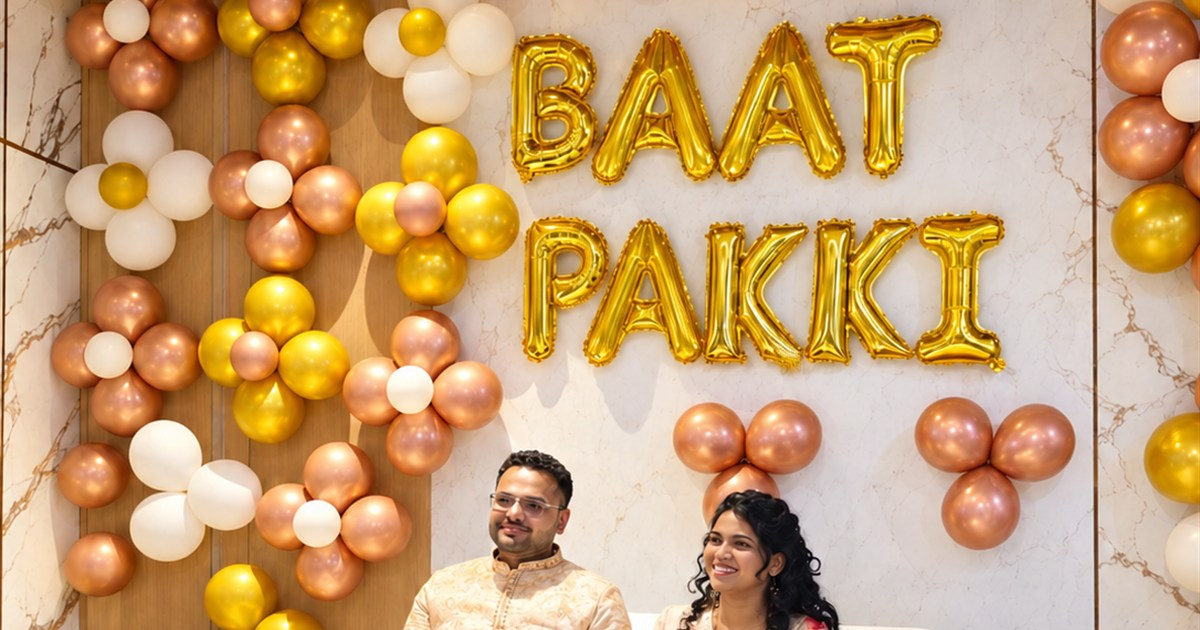
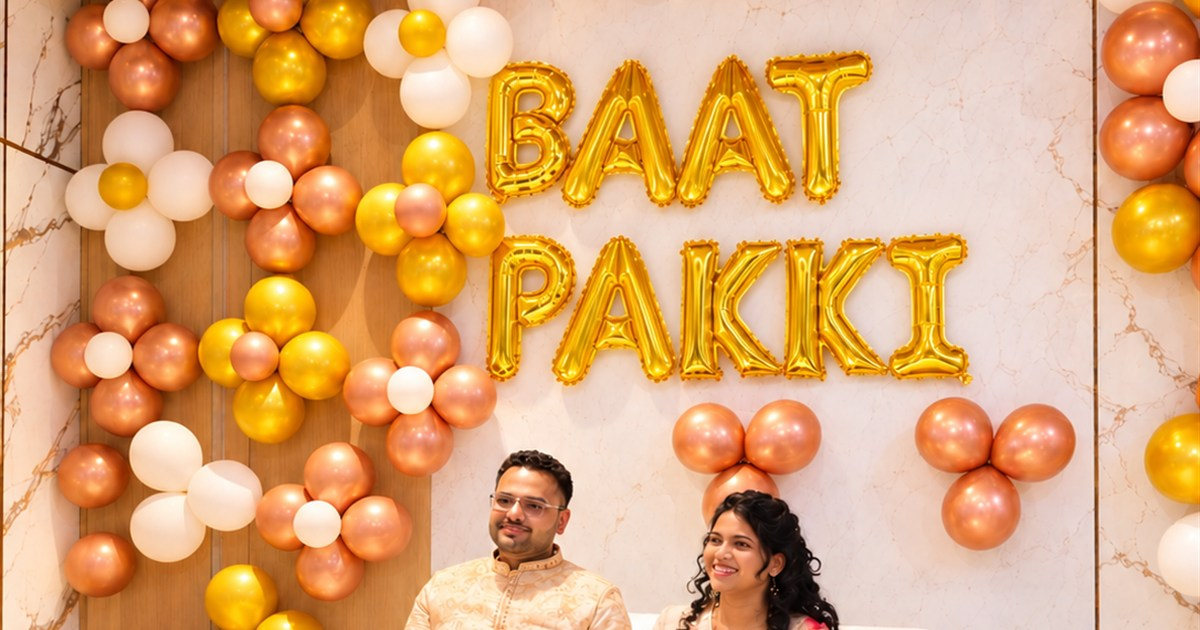
changed save the date

diff --git a/wedding-invitation-samyak-sister/src/styles.css b/wedding-invitation-samyak-sister/src/styles.css
@@ -254,10 +254,10 @@ img { max-width: 100%; display: block }
 .scene.photo-scene .inner { padding-top: 34vh }
 #finale { align-items: end; padding-bottom: 2rem }
 #finale .inner { padding-top: 0; padding-bottom: 0; gap: 1.1rem }
-/* Nudge the finale photo a touch to the left. Under `cover` a larger X shows more of the
-   right of the frame, so the picture slides left; the contained desktop rule below needs the
-   opposite sign, hence two values rather than one --focus. */
-#finale .backdrop img { object-position: 56% 30% }
+/* A phone only ever shows a ~62% slice of this portrait frame, so the crop has to favour the
+   left-hand side: a smaller X keeps the tall brass lamp stand in view instead of clipping it.
+   The contained desktop rule below needs the opposite sign, hence two values rather than one. */
+#finale .backdrop img { object-position: 40% 30% }
 #story .inner { padding-top: min(50vh, calc(100vh - 500px)); padding-top: min(50vh, calc(100svh - 500px)) }
 /* the opening invitation runs long, so it is set larger than the running lines but still wraps to two balanced lines */
 #story .invite { font-size: clamp(1.35rem, 5vw, 1.95rem); max-width: 24ch; color: var(--ink) }

diff --git a/wedding-invitation-samyak-sister/src/lib/wedding-config.ts b/wedding-invitation-samyak-sister/src/lib/wedding-config.ts
@@ -7,7 +7,7 @@ export const wedding = {
   venue: 'Jaykim Banquets (Unit of JKK Orchid)',
   address: 'Saharanpur, Uttar\u00A0Pradesh',
   mapsUrl: 'https://maps.app.goo.gl/5Prty6rrUXZ9UH8u9',
-  photos: { hero: '/front_abhinav_didi.jpeg', groom: '/couple/groom_childhood.png', bride: '/couple/bride_childhood.jpg', saveDate: '/baat_pakki_new.jpg', venue: '/banquet_hall.jpeg', finale: '/abhinav_didi_south_indian.jpeg', share: '/baat_pakki_share.jpg' },
+  photos: { hero: '/front_abhinav_didi.jpeg', groom: '/couple/groom_childhood.png', bride: '/couple/bride_childhood.jpg', saveDate: '/baat_pakki_one.jpg', venue: '/banquet_hall.jpeg', finale: '/abhinav_didi_south_indian.jpeg', share: '/baat_pakki_share.jpg' },
   /** Optional crop focus (CSS object-position) for a photo that its frame would otherwise cut badly. */
   photoFocus: { bride: '50% 8%', hero: '44% 30%' } as Partial<Record<'hero' | 'groom' | 'bride' | 'saveDate' | 'venue' | 'finale', string>>,
   /** Optional wide (16:9) versions of the backdrops, used from 601px up; empty falls back to the tall photo. */
